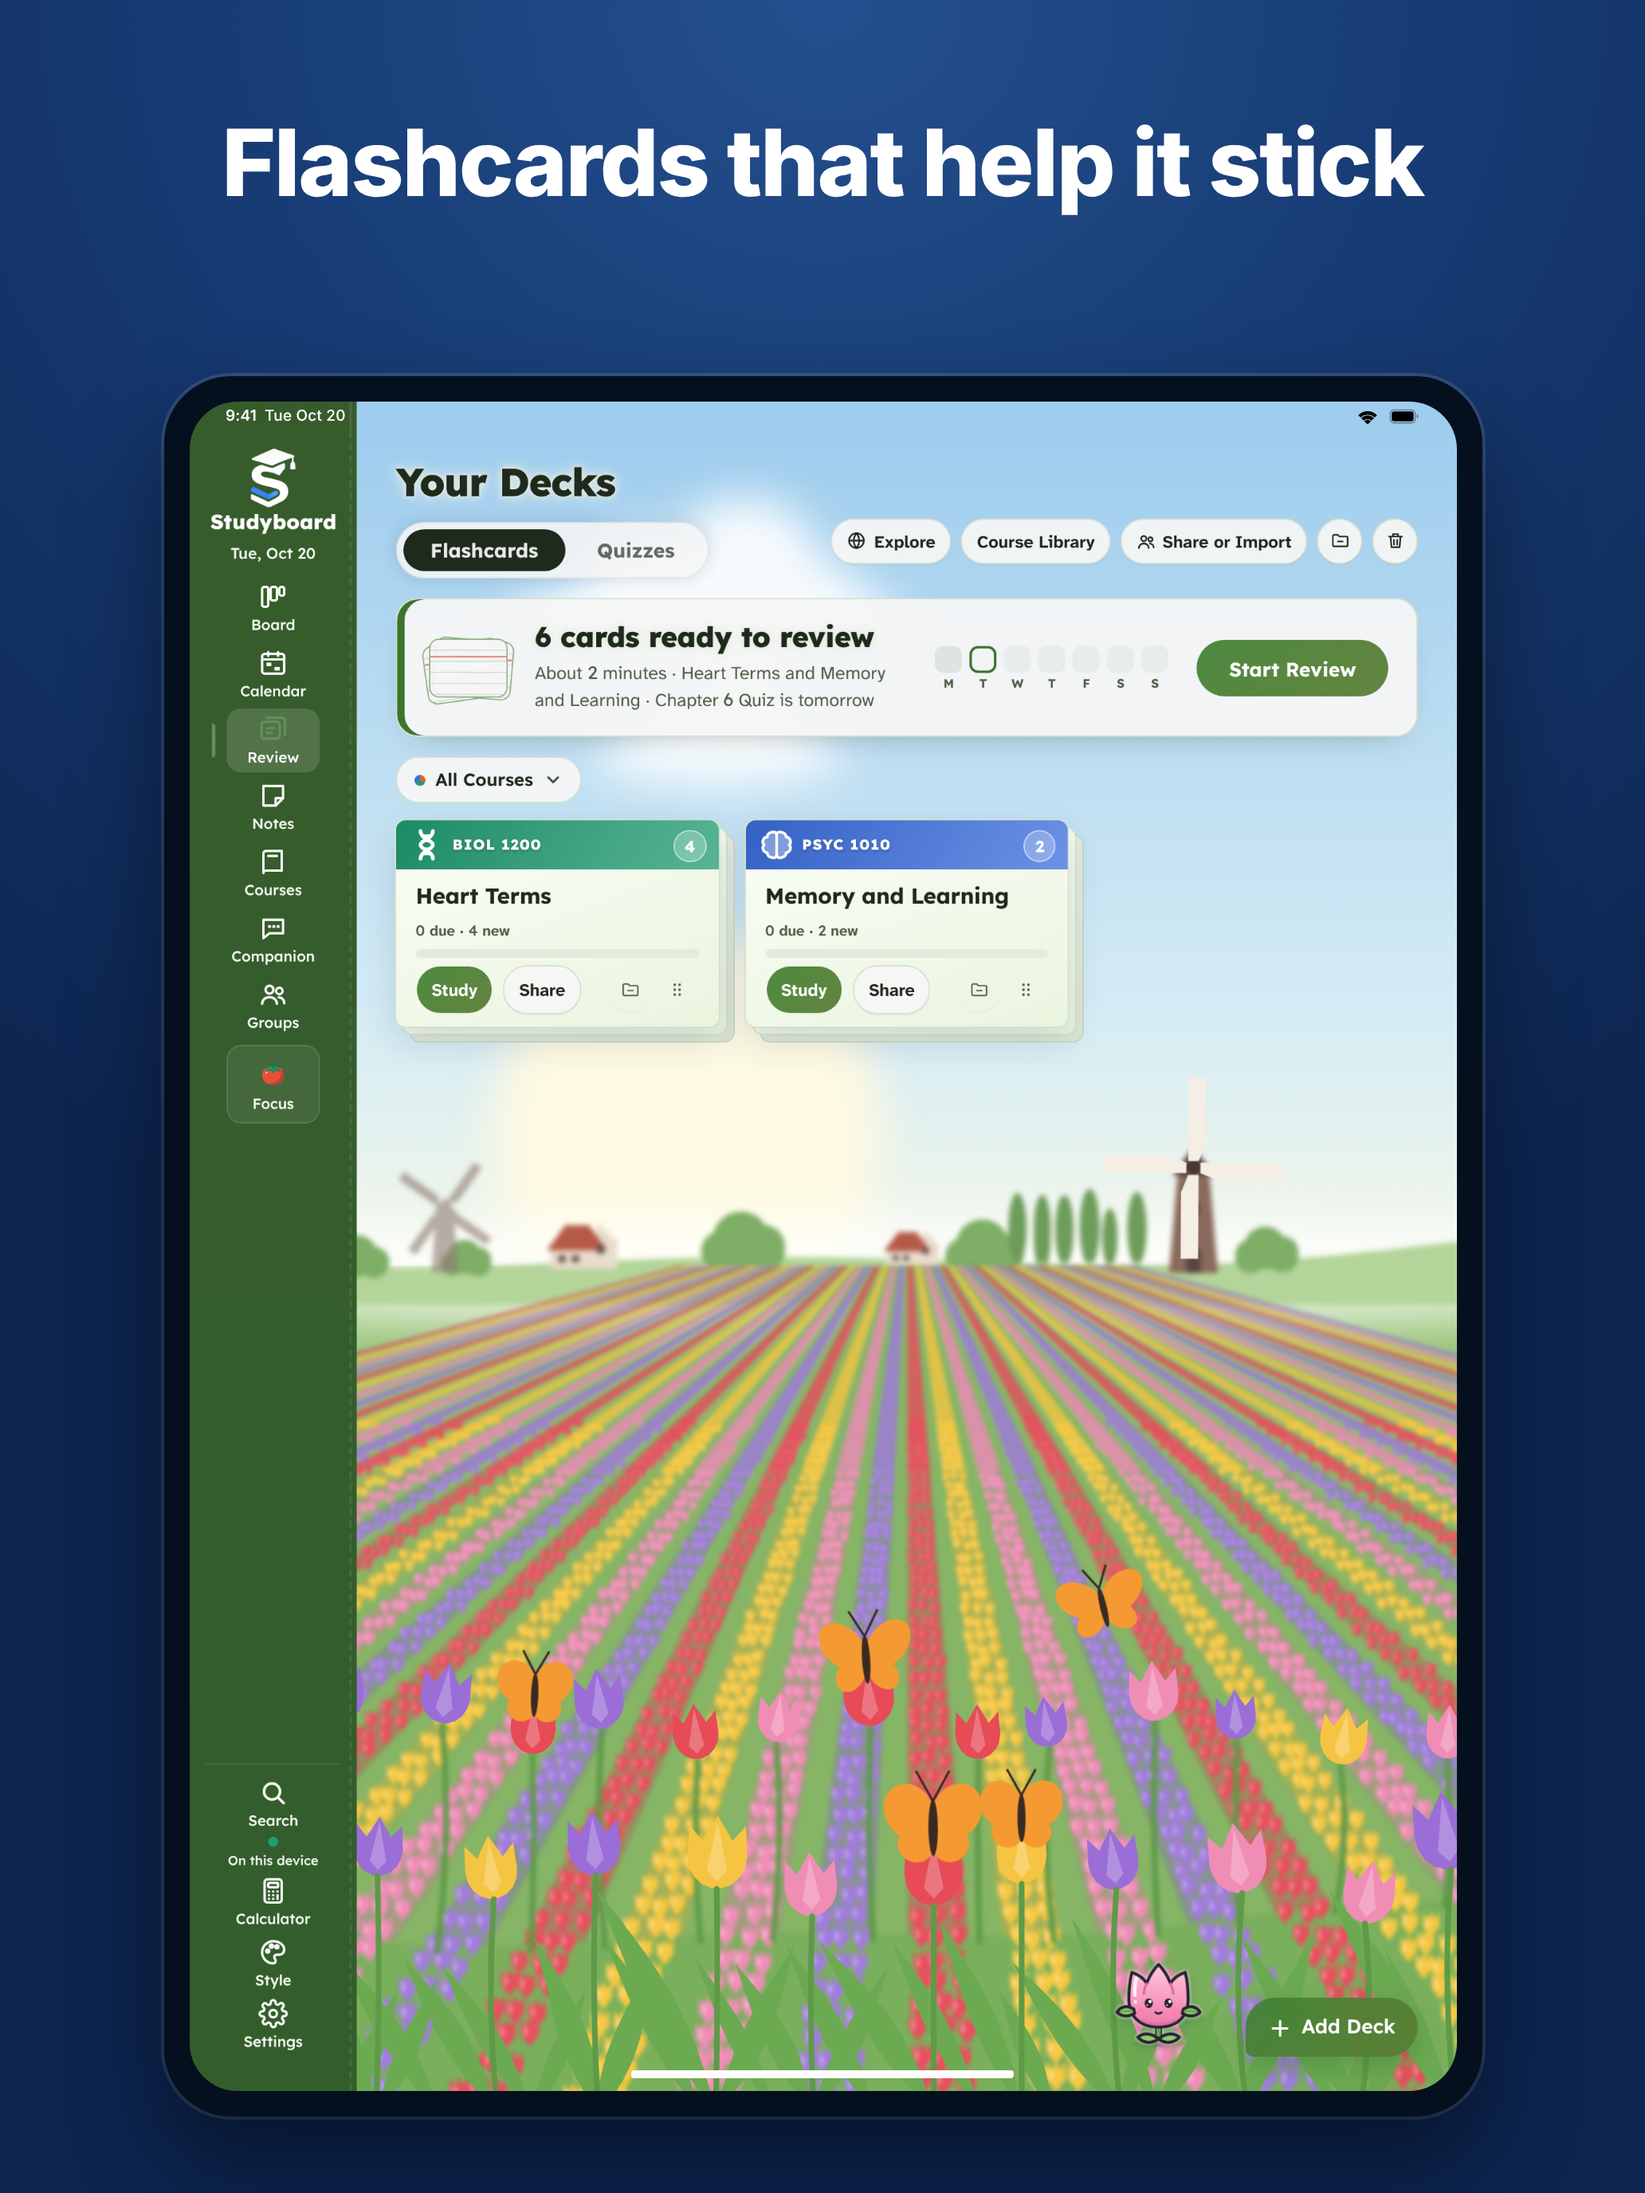
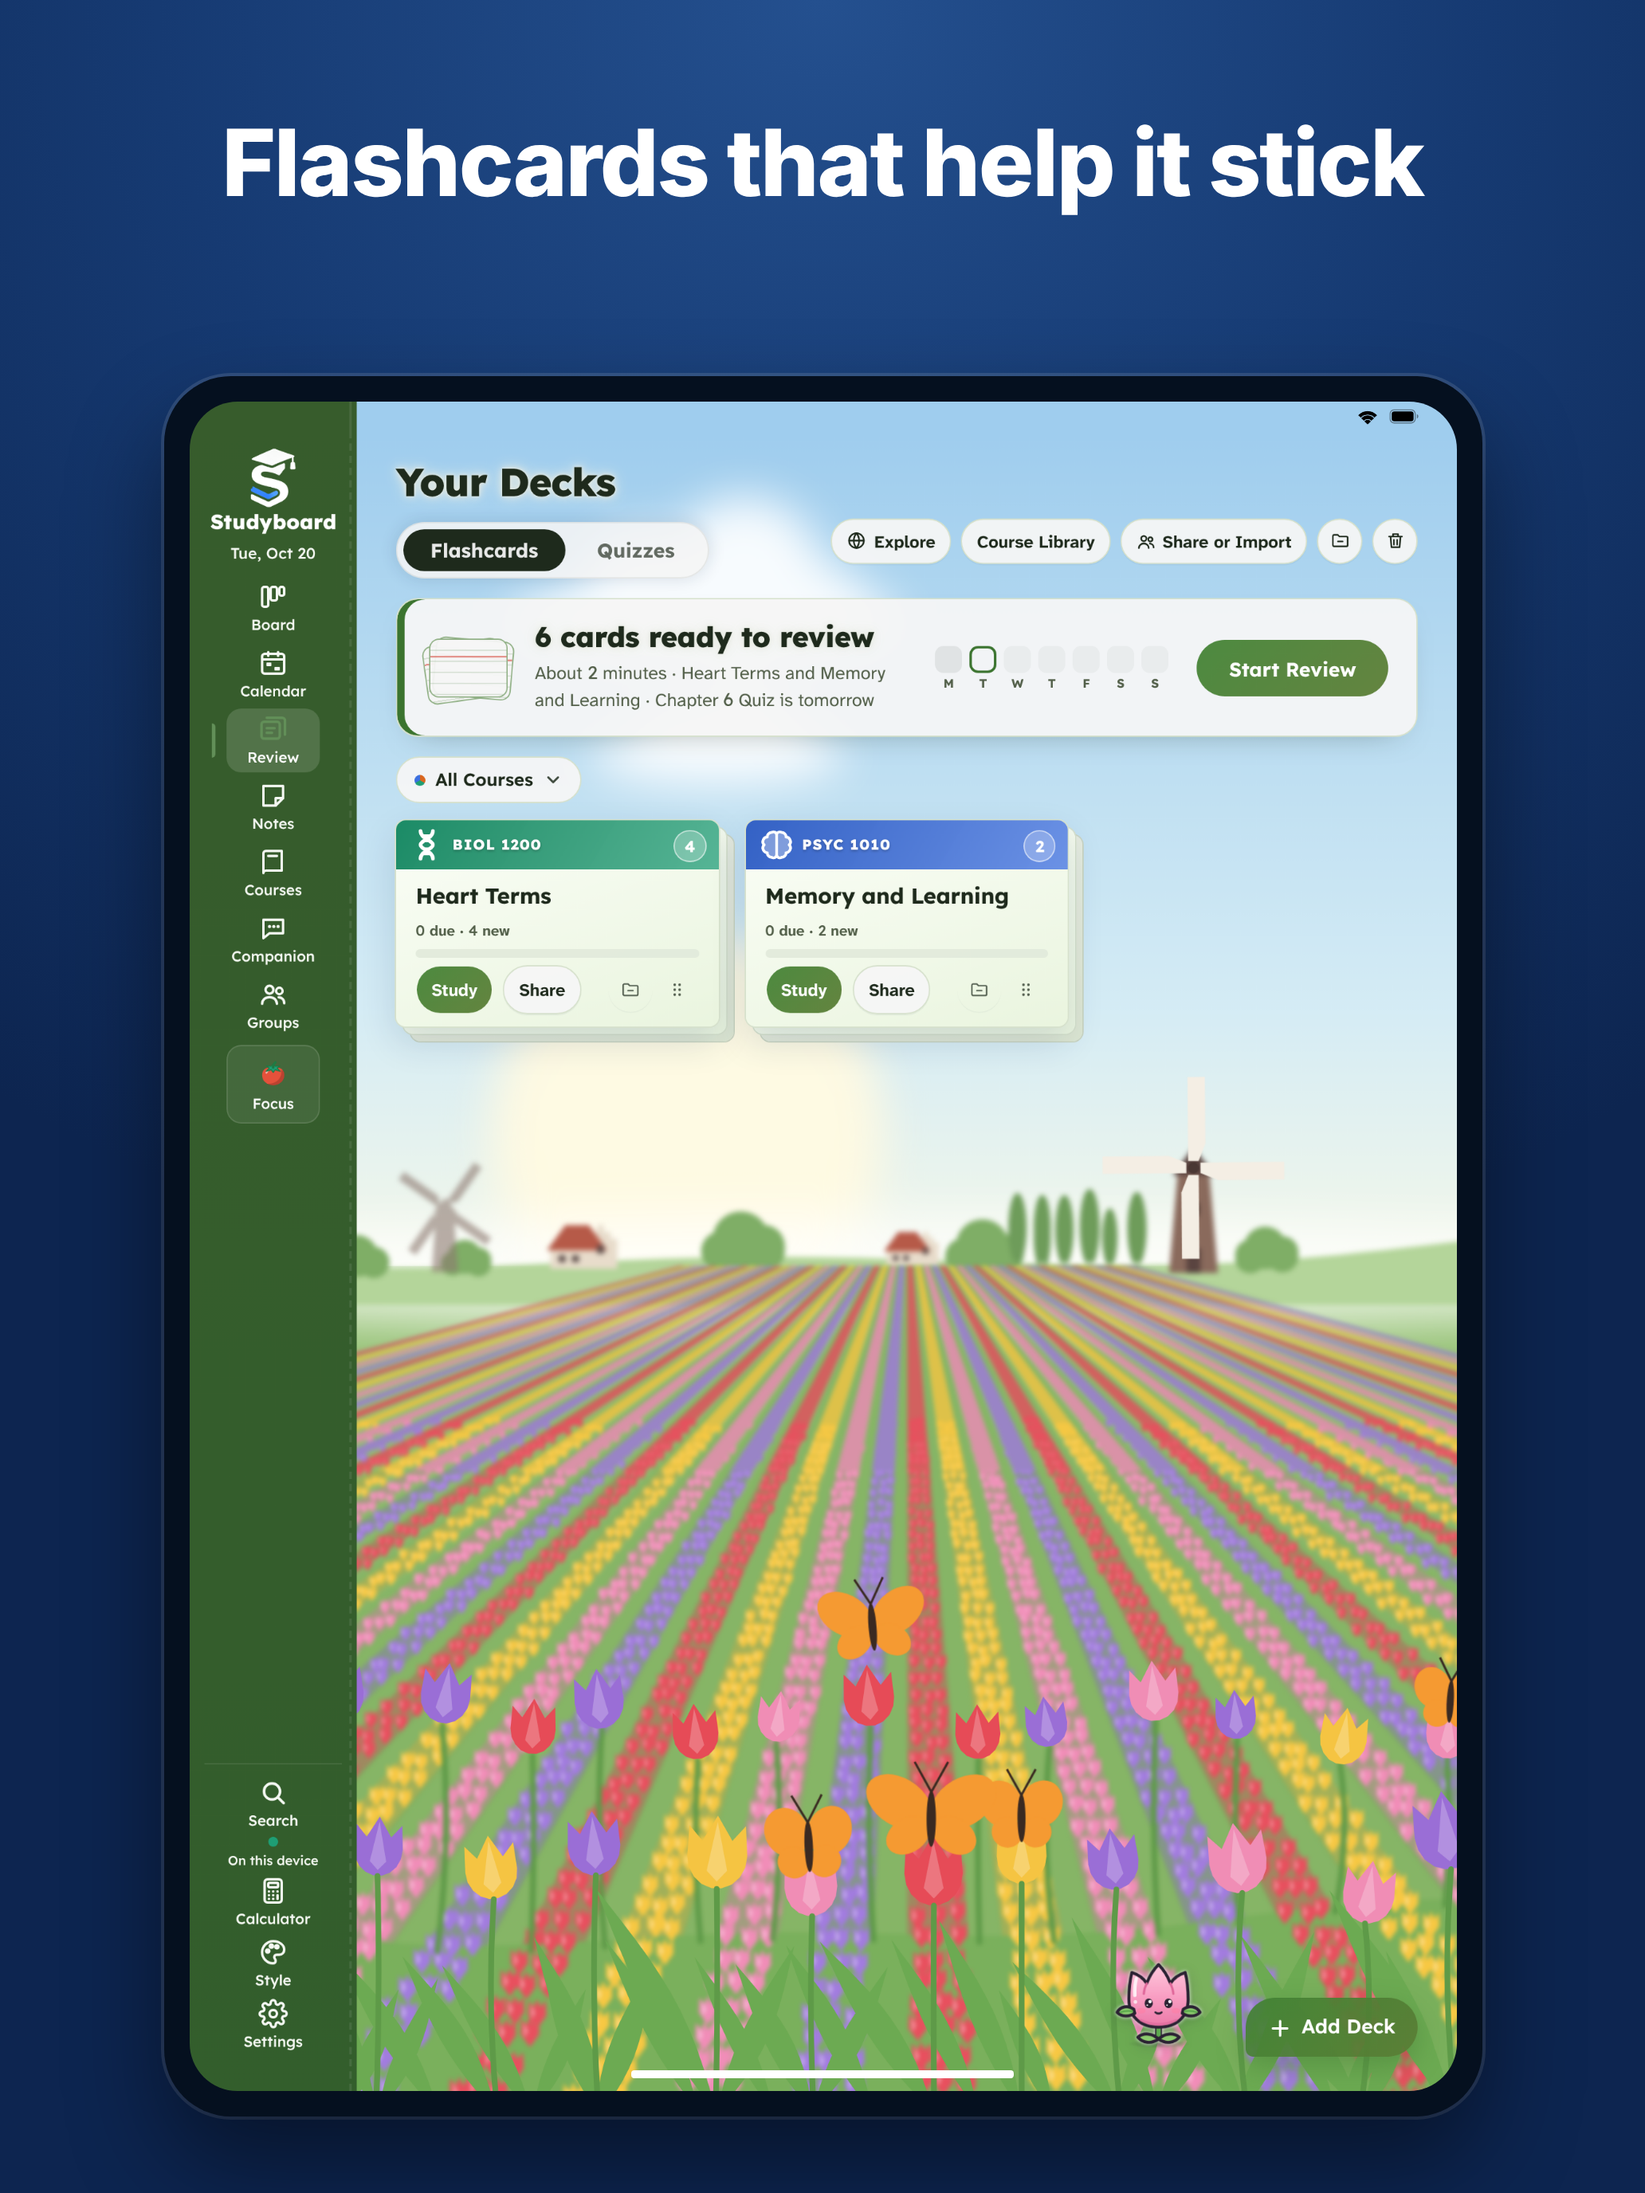
iPad screenshots: no time or date in the status bar
Claude-Session: https://claude.ai/code/session_01GobWpUXEceX7neuQ4MqPWr

diff --git a/tools/ios-frame.html b/tools/ios-frame.html
@@ -32,7 +32,8 @@ html.ipad .bar{height:calc(100% * 24 / 1376);display:flex;justify-content:space-
 html.ipad .bar .ic{gap:5px}
 html.ipad .bar svg{transform:scale(.85)}
 .bar .date{display:none;margin-left:5px;font-weight:500}
-html.ipad .bar .date{display:inline}
+/* no time or date on the iPad: only the icons at the top right */
+html.ipad .bar > span:first-child{visibility:hidden}
 html.ipad .bar .cell{display:none}
 html.ipad .bar > span:nth-child(2){display:none}
 html.ipad .home{width:240px;margin-left:-120px;bottom:8px;height:5px}
